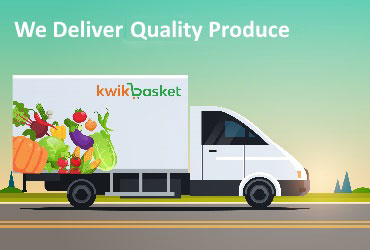
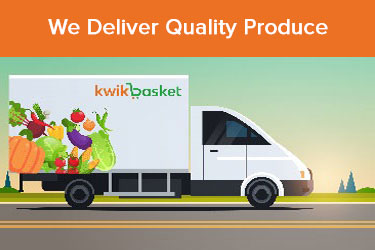
change design for about us

diff --git a/front/ui/theme/mvgv2/css/style.css b/front/ui/theme/mvgv2/css/style.css
@@ -790,22 +790,22 @@ button { }
     Website all buttons
 ---------------------------------*/
 .btn { padding: 6px 14px; border-radius: 2px; font-size: 15px; font-weight: 600; }
-.btn-default { color: #fff; background-color: #522e5b; border-color: #522e5b; }
-.btn-default.disabled:hover { color: #000; background-color: #522e5b; border-color: #522e5b; }
-.btn-default:hover { color: #fff; background-color: #45264c; border-color: #45264c; }
+.btn-default { color: #fff; background-color: #ff811e; border-color: #ff811e; }
+.btn-default.disabled:hover { color: #000; background-color: #88be4c; border-color: #88be4c; }
+.btn-default:hover { color: #fff; background-color: #88be4c; border-color: #88be4c; }
 .btn-grey { color: #fff; background-color: grey; border-color: grey; }
 .btn-grey[disabled]:hover { color: #fff; background-color: grey; border-color: grey; }
 
-.btn-default.focus, .btn-default:focus { color: #fff; background-color: #45264c; border-color: #45264c; }
-.btn-primary { color: #fff; background-color: #301635; border-color: #301635; }
-.btn-primary:hover { color: #fff; background-color: #ff811e; border-color: #ff811e; }
-.btn-primary.focus, .btn-primary:focus { color: #fff; background-color: #ff811e; border-color: #ff811e; }
+.btn-default.focus, .btn-default:focus { color: #fff; background-color: #88be4c; border-color: #88be4c; }
+.btn-primary { color: #fff; background-color: #ff811e; border-color: #ff811e; }
+.btn-primary:hover { color: #fff; background-color: #88be4c; border-color: #88be4c; }
+.btn-primary.focus, .btn-primary:focus { color: #fff; background-color: #88be4c; border-color: #88be4c; }
 .btn-grey { background-color: #cccccc; border: 1px solid #cccccc; }
 .btn-lg { font-size: 18px; padding: 9px 20px; }
 .btn-sm { font-size: 13px; padding: 5px 12px; }
 .btn-xs { font-size: 11px; padding: 6px; line-height: 1; }
 .btn-link-white { color: #fff; }
-.btn-link-white:hover { color: #522e5b; }
+.btn-link-white:hover { color: #88be4c; }
 .btn-link { color: #522e5b; }
 .btn-link:focus, .btn-link:hover { color: #301635; text-decoration: underline; background-color: transparent; }
 .btn-default:active:focus, .btn-default:active:hover { color: #fff; background-color: #301635; border-color: #301635; }
@@ -950,7 +950,7 @@ button { }
 /* ----- MODAL STYLE ----- */
 .modal-content { border-radius: 0; border: none; background-color: #fff; position: relative; }
 .modal-footer { padding: 10px 15px;    /* text-align: right; */ border-top: 1px solid #e5e5e5; position: fixed; bottom: 0px; z-index: 9; background: #f3f5f2; width: 100%; }
-.store-cart-panel .modal.left .modal-body, .modal.right .modal-body { padding: 65px 0px 20px 0px; }
+.store-cart-panel .modal.left .modal-body, .modal.right .modal-body { padding: 65px 0px 30px 0px; }
 
 .product-items { font-size: 12px; display: inline-block; width: 100%; }
 .product-items .product-quantity { float: left; }
@@ -1079,7 +1079,7 @@ Step Wizard
 .login-phone .form-control { padding-left: 68px; font-size: 14px; }
 .checkout-login .btn { height: 42px; line-height: 1.8; }
 .otp-verifaction { }
-.checkout-sidebar { background-color: #fff; border: 1px solid #d7dcd6; padding: 30px; margin-bottom: 30px; }
+.checkout-sidebar { background-color: #fff; border: 1px solid #d7dcd6; padding: 30px; margin-bottom: 30px; margin-top: 23px;}
 .checkout-sidebar-merchant-box { background-color: #fff; border: 1px solid #d7dcd6; margin-bottom: 30px; }
 .checkout-total { border-bottom: 1px solid #d7dcd6; padding-bottom: 10px; margin-bottom: 10px; }
 .checkout-invoice { display: inline-block; width: 100%; }

diff --git a/front/ui/theme/metaorganic/assets_newhome/stylesheet/style.css b/front/ui/theme/metaorganic/assets_newhome/stylesheet/style.css
@@ -1771,6 +1771,8 @@ ul.level1 {
 
 .offer-inner { background:#fff; border-radius:60px 90px 40px 90px; padding:40px 20px 0px; margin-bottom:20px;}
 .offer-inner img {border-radius:30px 60px 20px 60px; max-width:100%}
+.offer-innernew { padding-bottom: 40px !important;}
+
 
 .offer-inner .left .col {
 	width:33.3%;
@@ -12814,7 +12816,7 @@ select#shipping-address-select {
     padding: 5px 0 5px 52px;
     font-size: 16px;
     line-height: 24px;
-    color: #263238;
+    color: #828287;
     position: relative;
     transition: all ease 0.5s;
     -webkit-transition: all ease 0.5s;
@@ -12863,4 +12865,14 @@ select#shipping-address-select {
 		font-family: FontAwesome;
 		font-size: 20px;
 		padding-right: 5px;
+	}
+	.partner:hover{
+		background-color: #ec9f4e !important;
+	}
+	.partner{
+		border-radius: 999px;
+		font-weight: 500;
+    font-size: 14px;
+    text-transform: uppercase;
+    letter-spacing: 0.5px;
 	}

diff --git a/front/ui/theme/metaorganic/assets/css/style.css b/front/ui/theme/metaorganic/assets/css/style.css
@@ -3134,7 +3134,7 @@ body#vip .header__banner-container {
 .header__search-location input.header__search-input {
 	padding-left: 49px;
 	height: 45px;
-	width: 550px;
+	width: 400px;
     border-radius: 30px;
 }
 
@@ -8870,4 +8870,7 @@ button#detect_location {
 	width: 49%;
 	float: right;
 	margin-top: 10px;
+}
+.header__primary-navigation-outer-wrapper .header__logo-container{
+	margin-top: 30px
 }

diff --git a/front/ui/theme/metaorganic/assets/css/list.css b/front/ui/theme/metaorganic/assets/css/list.css
@@ -19029,14 +19029,13 @@ address {
 }
 .header__logo-container img {
   width: 10rem;
-  margin: 30px 0px 0px 0px ;
 }
 .setproductimg{
   background-color: #f4f3f2;
     padding: 15px 10px;
 }
 .search-dropdown{
-  width: 520px !important;
+  width: 364px !important;
   left: 17px !important;
   top: 43px !important;
 }

diff --git a/front/ui/theme/mvgv2/css/mycart.css b/front/ui/theme/mvgv2/css/mycart.css
@@ -134,7 +134,7 @@
 
 .store-cart-panel .btn {
     font-size: 16px;
-    padding-bottom: 25px;
+    padding-bottom: 30px;
 }
 
 .clear-cart{
